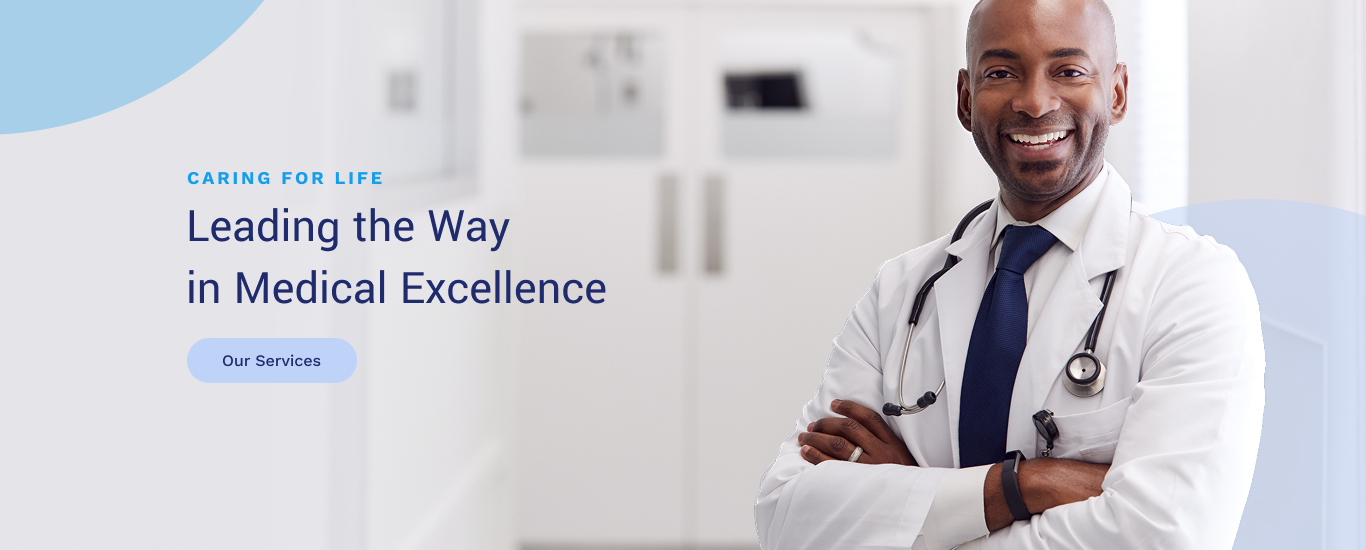
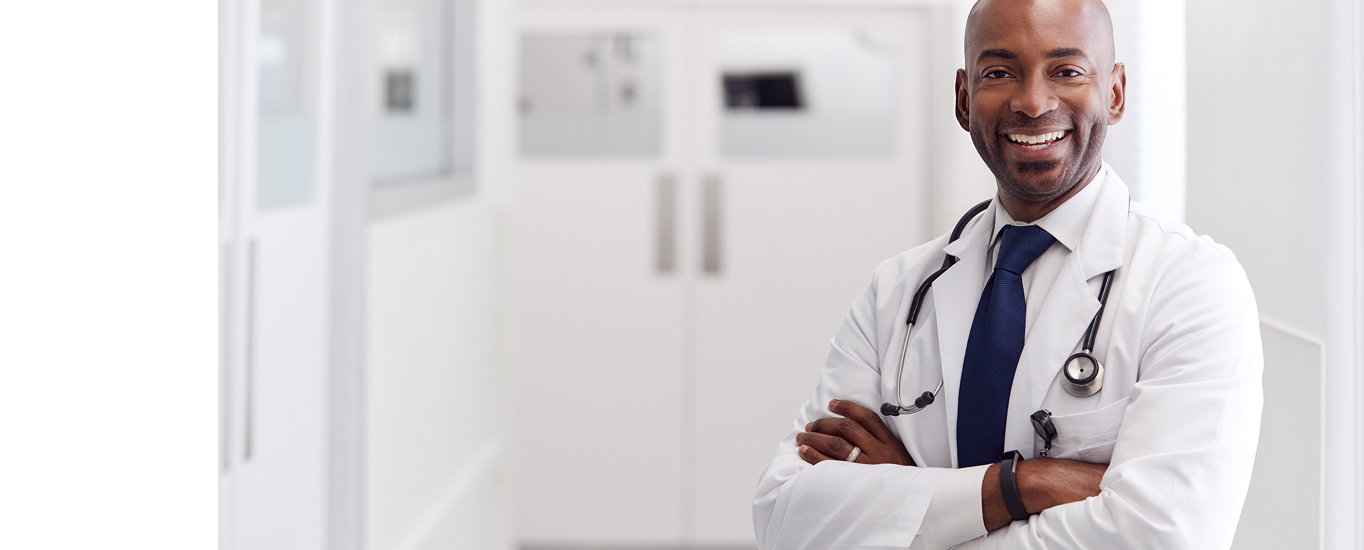
first page completed

diff --git a/Hospital_Management_System/core/templates/index.html b/Hospital_Management_System/core/templates/index.html
@@ -1,10 +1,12 @@
 {% extends "base.html" %}
+{% load static %}
 
 {% block title %}Home Page{% endblock title %}
 
 {% block content %}
 <!-- ================= HERO ================= -->
-<section class="hero">
+<div id="banner">
+    <section class="hero">
     <div class="container hero-content">
         <div class="hero-text">
             <span>CARING FOR LIFE</span>
@@ -13,6 +15,7 @@
         </div>
     </div>
 </section>
+</div>
 
 <!-- ================= APPOINTMENT CARDS ================= -->
 <section class="appointment-cards">
@@ -69,7 +72,7 @@
 <section class="team-banner">
     <div class="container">
         <div class="team-image">
-            <img src="/static/hospital_app/website/picture/Group 183.png" alt="Our Medical Team">
+            <img src="{% static 'core/image/secHero.jpg' %}" alt="Our Medical Team">
         </div>
     </div>
 </section>
@@ -139,8 +142,8 @@
 
         <!-- Right Images -->
         <div class="services-images">
-            <img src="/static/hospital_app/website/picture/abbb (1).jpg" alt="">
-            <img src="/static/hospital_app/website/picture/abbb (2).jpg" alt="">
+            <img src="{% static 'core/image/1stService.png' %}" alt="">
+            <img src="{% static 'core/image/2ndService.png' %}" alt="Nothing">
         </div>
 
     </div>
@@ -301,7 +304,7 @@
 
             <!-- Doctor Card -->
             <div class="doctor-card">
-                <img src="/static/hospital_app/website/picture/cc3.jpg" alt="Doctor">
+                <img src="{% static 'core/image/1stDoctor.jpeg' %}" alt="Doctor">
 
                 <div class="doctor-info">
                     <h4>Doctor’s Name</h4>
@@ -319,7 +322,7 @@
 
             <!-- Doctor Card -->
             <div class="doctor-card">
-                <img src="/static/hospital_app/website/picture/cc2.png" alt="Doctor">
+                <img src="{% static 'core/image/2ndDoctor.jpeg' %}" alt="Doctor">
 
                 <div class="doctor-info">
                     <h4>Doctor’s Name</h4>
@@ -337,7 +340,7 @@
 
             <!-- Doctor Card -->
             <div class="doctor-card">
-                <img src="/static/hospital_app/website/picture/cc3.jpg" alt="Doctor">
+                <img src="{% static 'core/image/3rdDoctor.jpeg' %}" alt="Doctor">
 
                 <div class="doctor-info">
                     <h4>Doctor’s Name</h4>

diff --git a/Hospital_Management_System/core/static/core/css/style.css b/Hospital_Management_System/core/static/core/css/style.css
@@ -144,12 +144,12 @@ ul.nav-links li a {
             rgba(244, 246, 251, 0.6) 70%,
             rgba(244, 246, 251, 0.2) 100%
         ),
-        url("picture/Group 94(1).png");
-
+        url("../image/hero.png");
     background-repeat: no-repeat;
     background-position: right bottom;
     background-size: contain;
 }
+
 
 .hero-content {
     width: 100%;
@@ -191,7 +191,7 @@ ul.nav-links li a {
                 rgba(244, 246, 251, 0.9),
                 rgba(244, 246, 251, 0.9)
             ),
-            url("picture/Group 94(1).png"
+            url("../image/hero.png"
         );
     }}
 /* ================= MOBILE VIEW ================= */
@@ -204,7 +204,7 @@ ul.nav-links li a {
                 rgba(255, 255, 255, 0.88),
                 rgba(255, 255, 255, 0.88)
             ),
-            url("picture/Group 94(1).png");
+            url("../image/hero.png");
 
         background-position: center;
         background-size: cover;
@@ -519,7 +519,7 @@ ul.nav-links li a {
 .team-image {
     width: 100%;
     overflow: hidden;
-    border-radius: 12px;
+    border-radius: 3px;
 }
 
 .team-image img {
@@ -837,7 +837,7 @@ ul.nav-links li a {
             rgba(255,255,255,0.85),
             rgba(255,255,255,0.85)
         ),
-        url("picture/doctor.png") center/cover no-repeat;
+        url("../image/bookappoinment.png") center/cover no-repeat;
     padding: 120px 0;
 }
 

diff --git a/Hospital_Management_System/core/templates/service.html b/Hospital_Management_System/core/templates/service.html
@@ -1,5 +1,5 @@
 {% extends "base.html" %}
-
+{% load static %}
 {% block title %}Services Page{% endblock title %}
 
 {% block content %}
@@ -23,7 +23,7 @@
             <!-- Card -->
             <div class="service-card ">
                 <div class="service-img">
-                    <img src="/static/hospital_app/website/picture/cc3.jpg" alt="Service">
+                    <img src="{% static 'core/image/hero.png' %}" alt="Service">
                     <div class="service-overlay">
                         <i class="fa-solid fa-bandage"></i>
                     </div>
